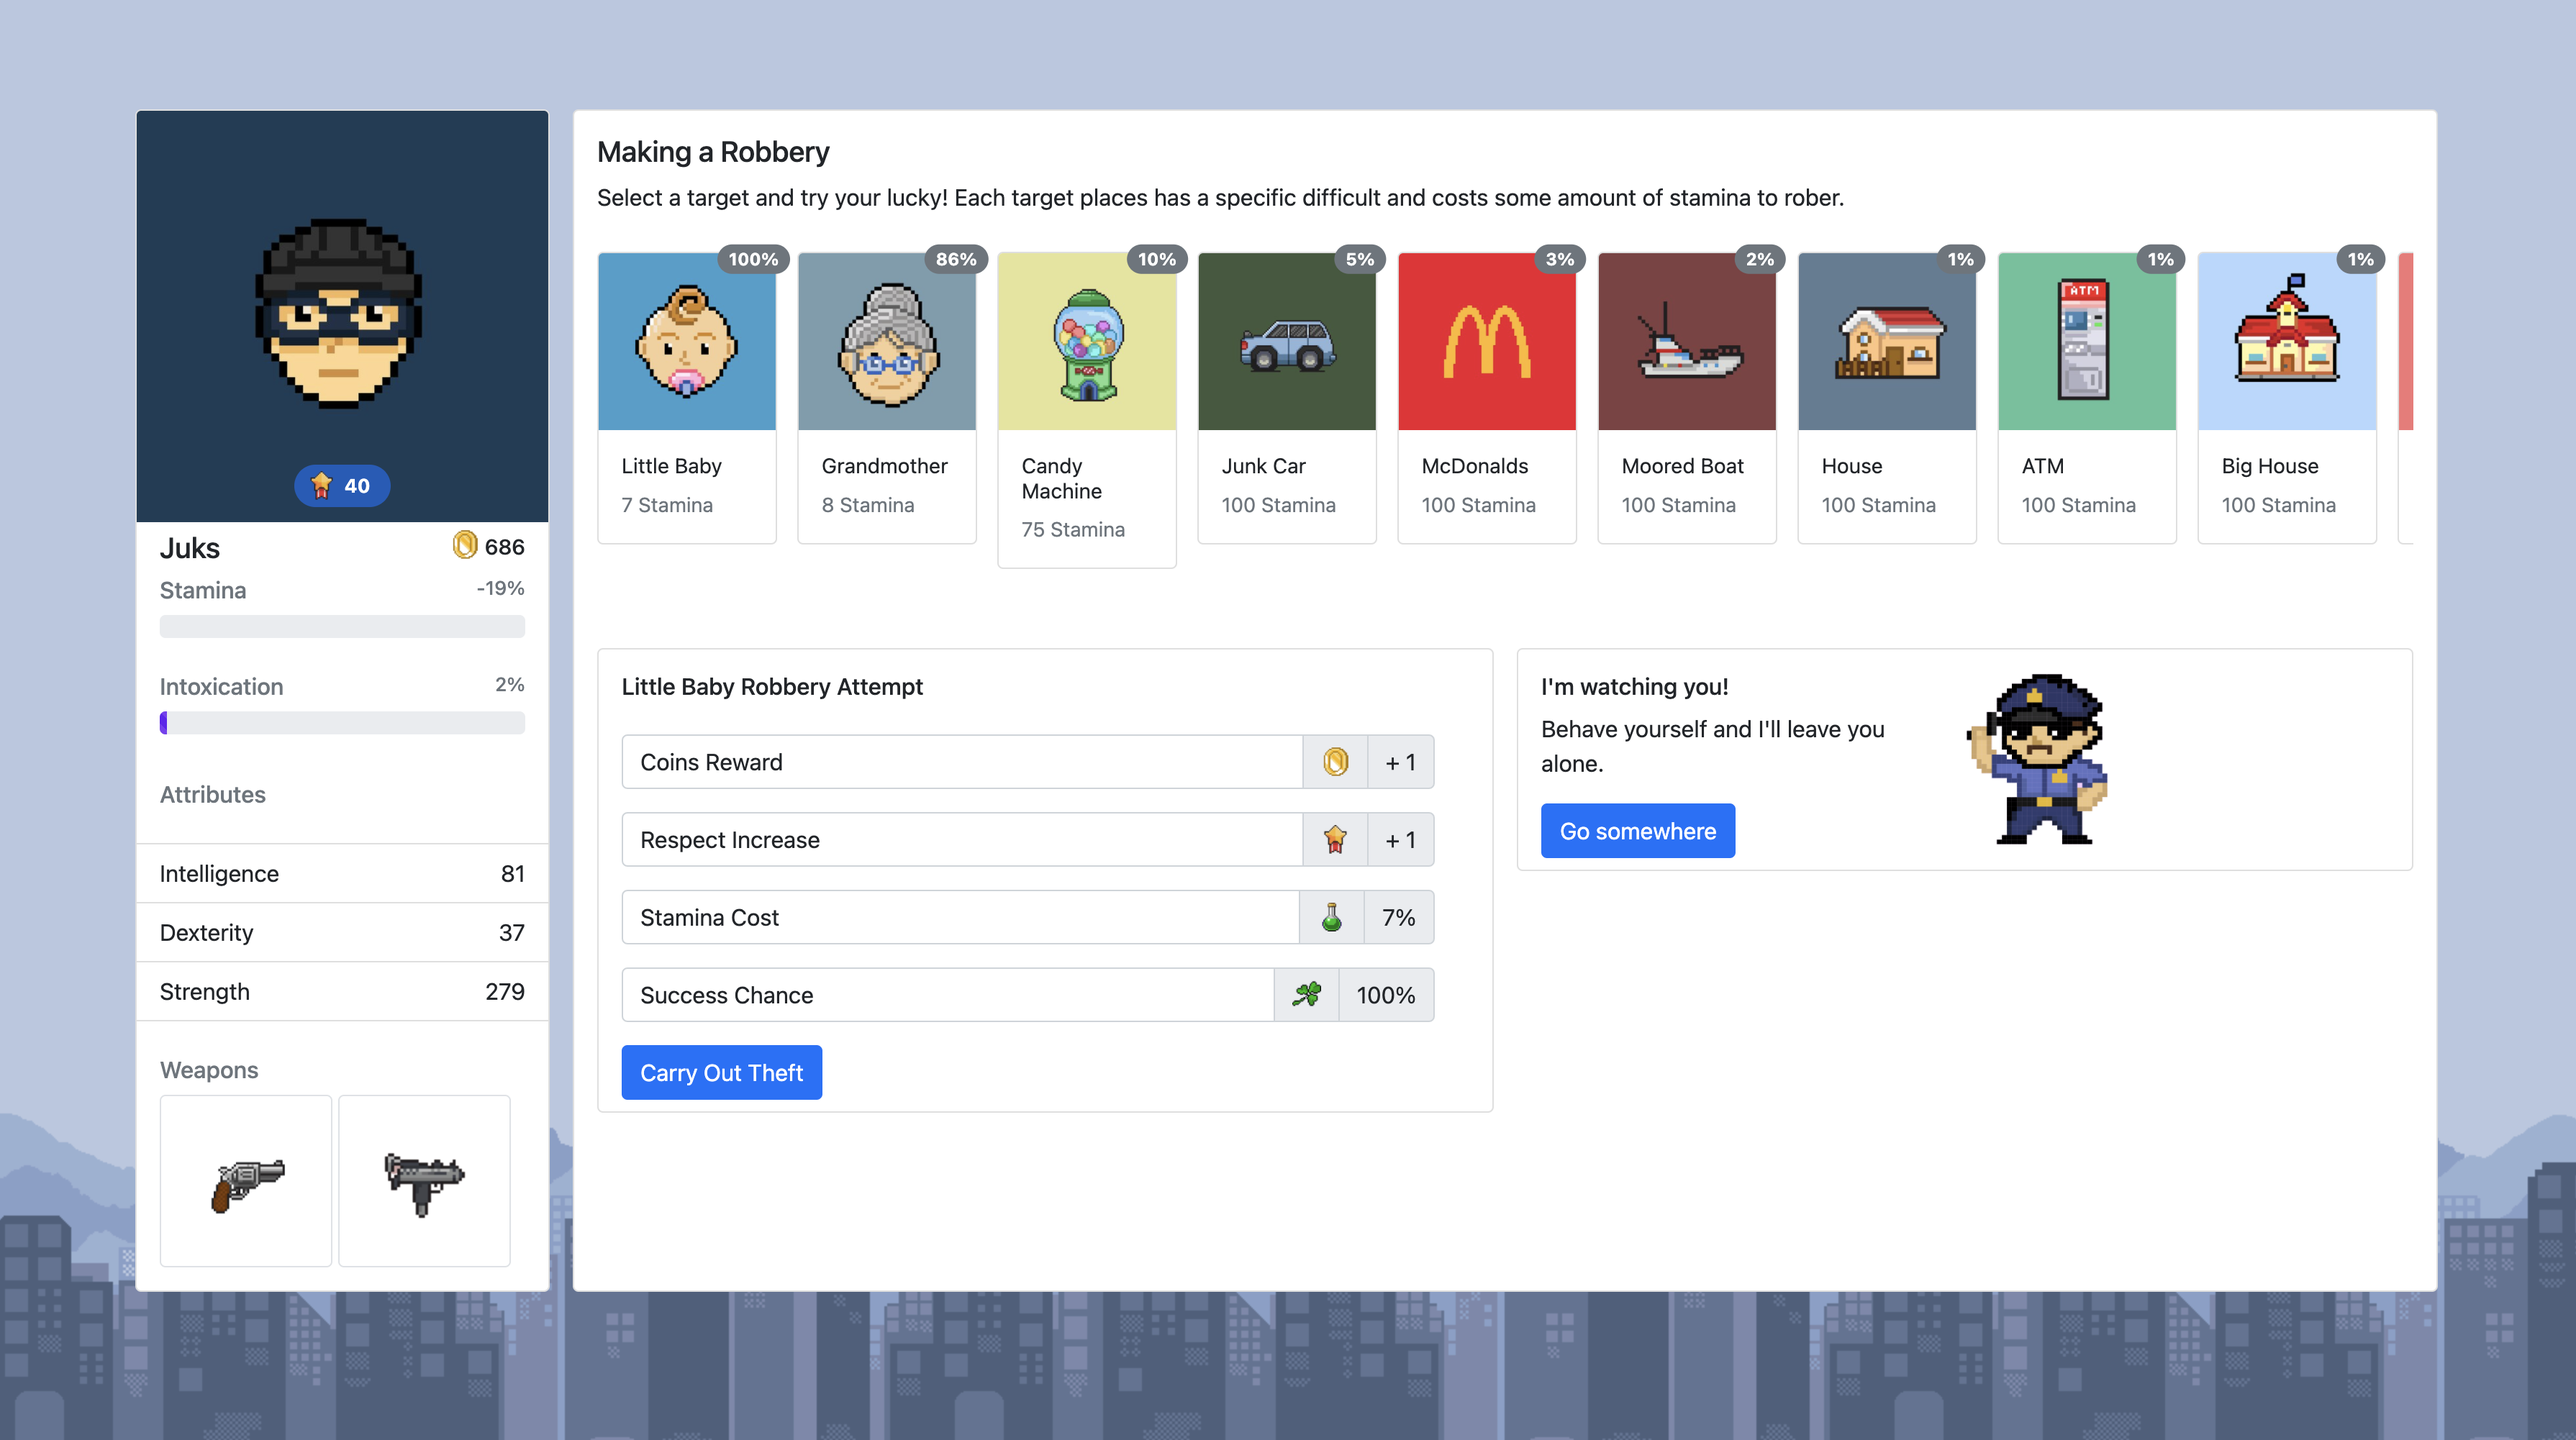
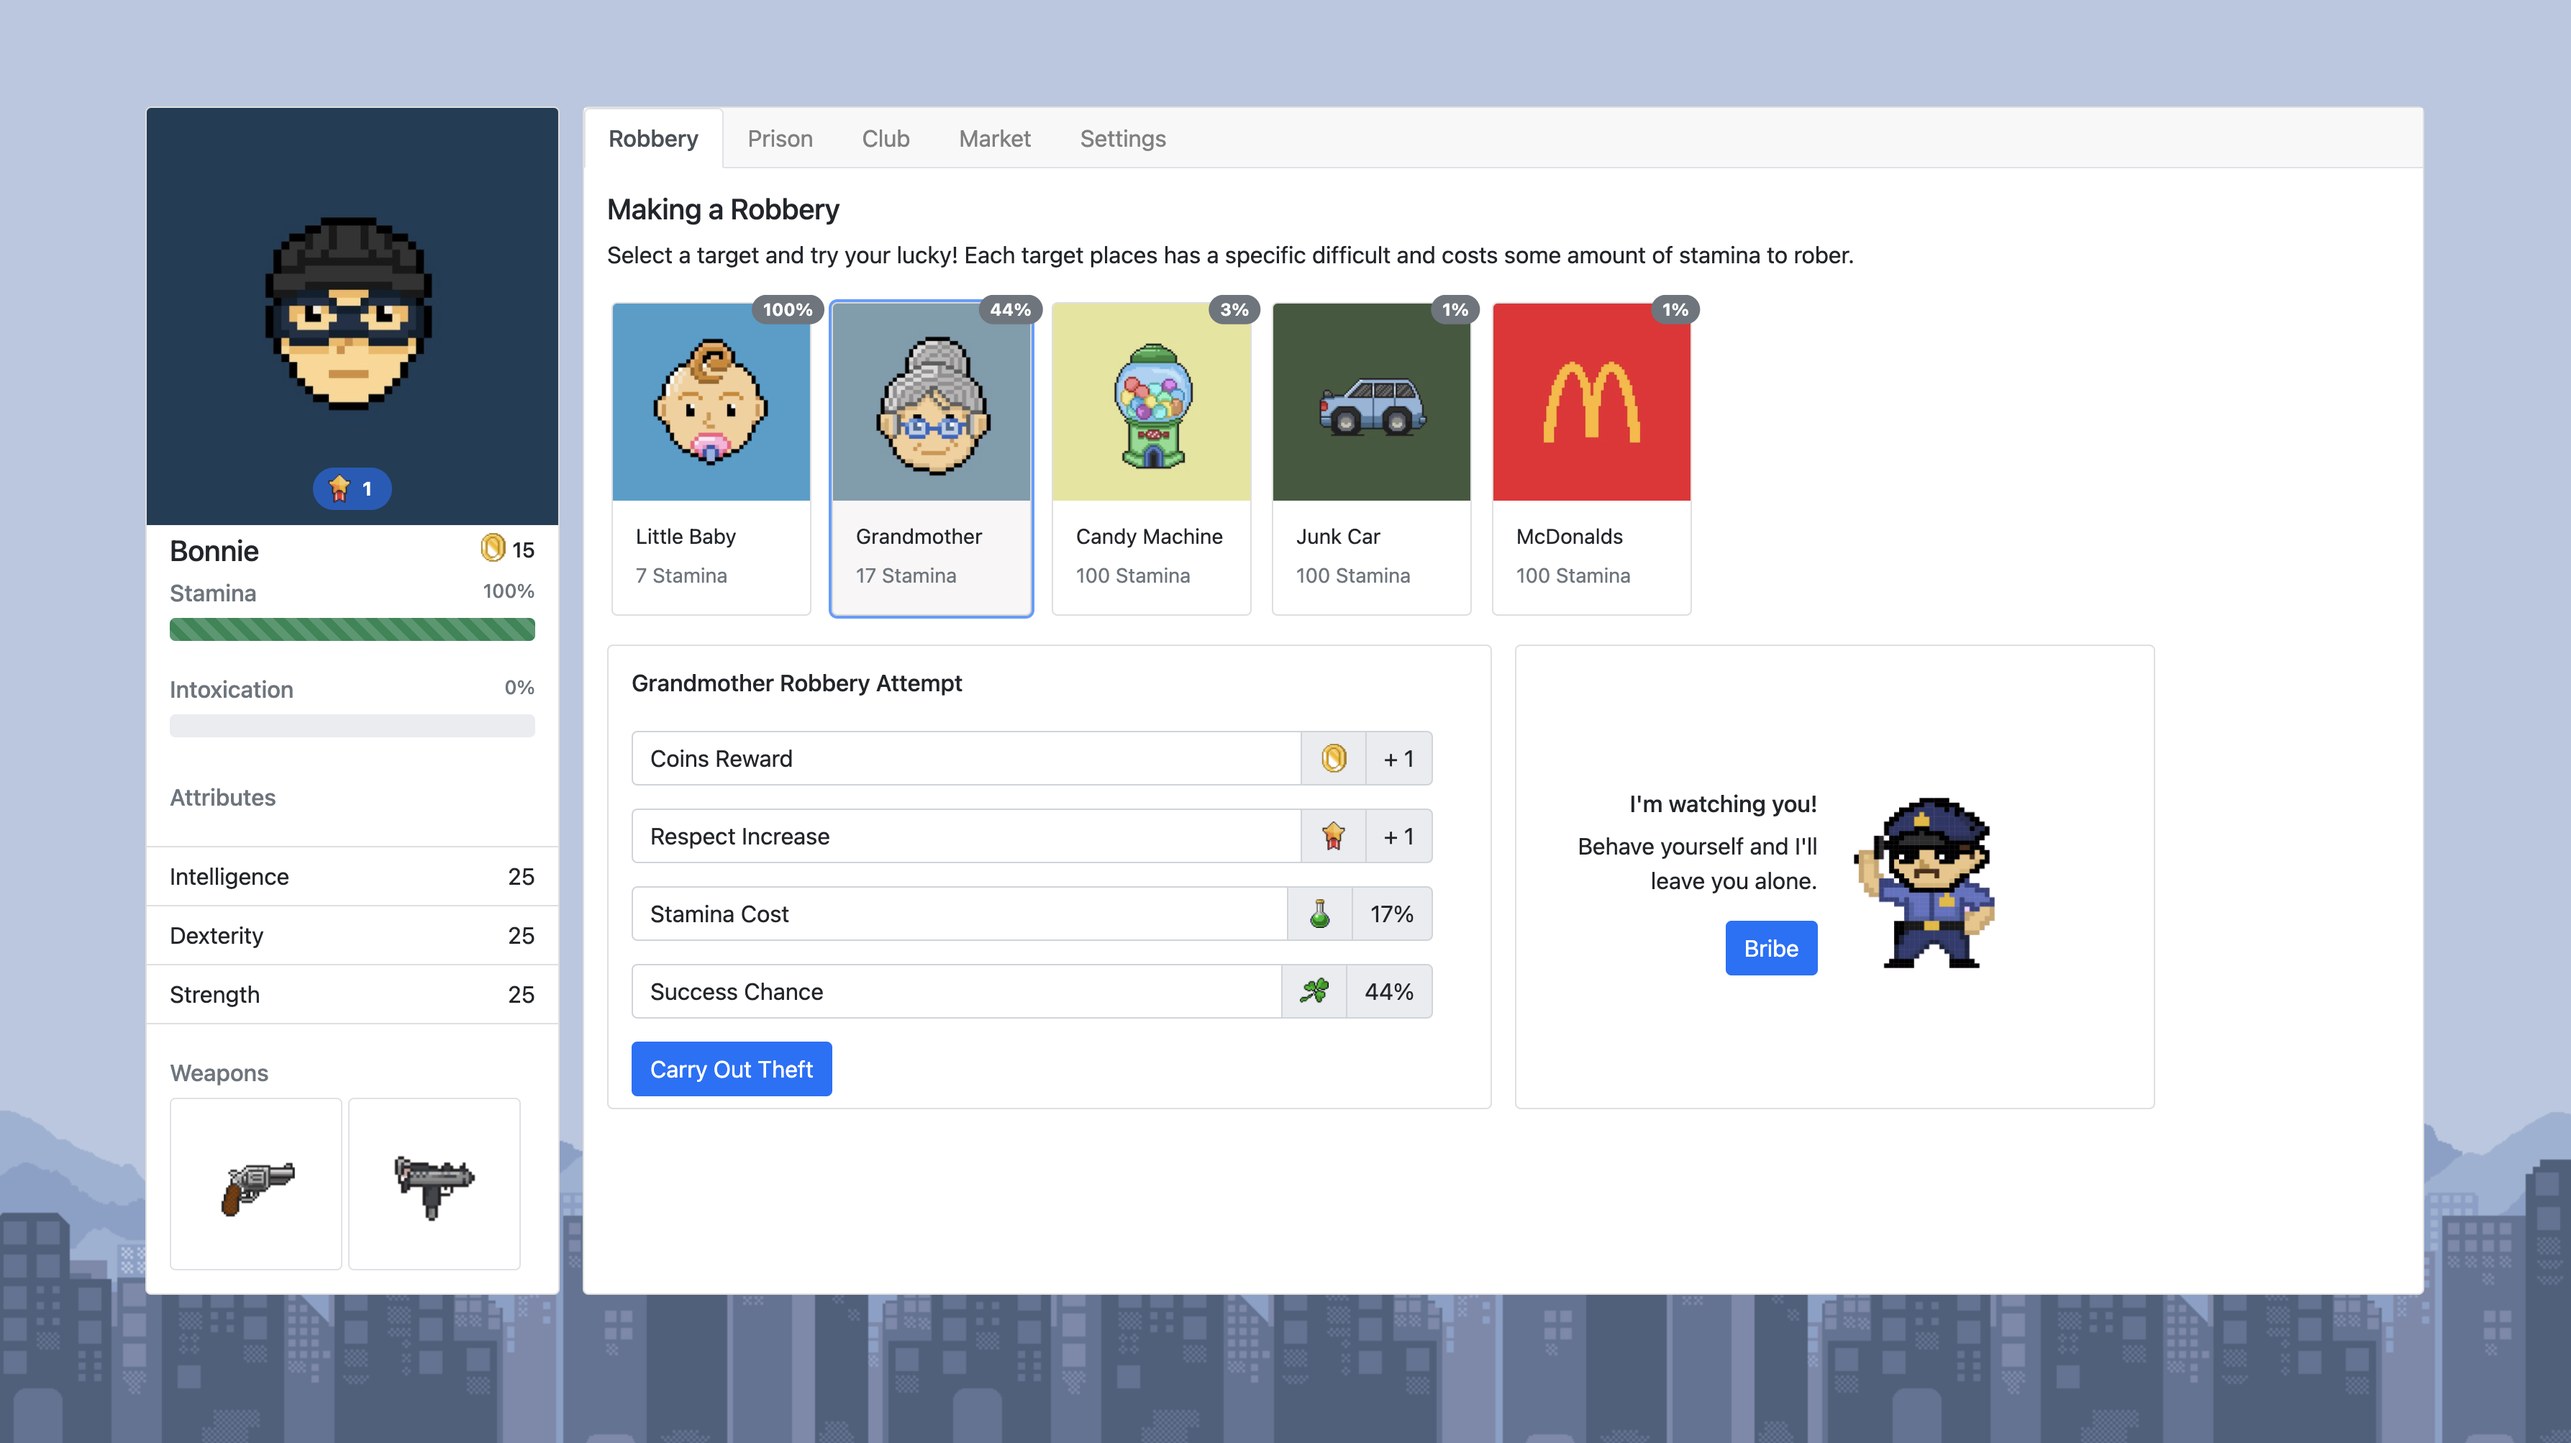
robbery-imgs

diff --git a/src/pages/robbery.js b/src/pages/robbery.js
@@ -15,25 +15,28 @@ module.exports = class RobberyPage {
 
     bind(app) {
         app.get('/robbery', (req, res) => {
-            this.thiefController.get(process.env.USER_ID).then(thief => {
-                req.session.player = thief;
-                res.render('pages/robbery', { thief })
-            });
+            this.thiefController.get(req.session.playerId).then(thief => res.render('pages/robbery', { thief }));
         });
 
         app.get('/robbery-places', (req, res) => {
-            this.robberyPlaceController.placesFor(req.session.player).then((places) => res.render('partials/robbery-places', { places }));
+            this.thiefController.get(req.session.playerId).then(thief => {
+                this.robberyPlaceController.placesFor(thief).then((places) => res.render('partials/robbery-places', { places }));
+            });
         });
 
         app.get('/robbery-form', (req, res) => {
-            this.robberyPlaceController.placesDetails(req.query._id, req.session.player).then(place => {
-                req.session.lastSelectedPlaceId = place._id;
-                res.render('partials/robbery-form', { place })
+            this.thiefController.get(req.session.playerId).then(thief => {
+                this.robberyPlaceController.placesDetails(req.query._id, thief).then(place => {
+                    req.session.lastSelectedPlaceId = place._id;
+                    res.render('partials/robbery-form', { place })
+                });
             });
         });
 
         app.post('/robbery-submit', (req, res) => {
-            this.robberyMecanics.submit(req.body.placeId, req.session.player).then(result => res.send(result));
+            this.thiefController.get(req.session.playerId).then(thief => {
+                this.robberyMecanics.submit(req.body.placeId, thief).then(result => res.send(result));
+            });
         });
     }
 }

diff --git a/front/js/robbery.js b/front/js/robbery.js
@@ -43,6 +43,8 @@ class RobberyLayoutManager {
 
         this.getFormPlaceHolder().hide();
         this.getFormHolder().hide().fadeIn();
+
+        setTimeout(() => { $('.robbery-result-holder').show() }, 400);
     }
 
     reloadPlaces() {
@@ -101,9 +103,11 @@ class RobberyLayoutManager {
 
     updateRobberyResult(result) {
         var sign = n => { return n > 0 ? '+ ' + n : n }
-        $('#result-info').hide().fadeIn();
+        $('#result-info').hide().fadeIn().css('display', 'flex');
         $('#result-info .card-text').text(result.msg)
 
+
+        $('#result-img').attr('src', result.success ? '/img/bag-and-coins.png' : '/img/busted.png')
         $('#result-coins').text(sign(result.coins)).parent().toggle(!!result.coins);
         $('#result-respect').text(sign(result.respect)).parent().toggle(!!result.respect);
         $('#result-intelligence').text(sign(result.intelligence));
@@ -112,13 +116,14 @@ class RobberyLayoutManager {
     }
 
     updateThiedStatus(thief) {
-        $('#coins').text(thief.coins);
-        $('#stamina-percent').text(thief.stamina + '%');
-        $('#stamina').css('width', thief.stamina + '%').attr('aria-valuenow', thief.stamina);
+        $('#stats-respect').text(thief.respect);
+        $('#stats-coins').text(thief.coins);
+        $('#stats-stamina-percent').text(thief.stamina + '%');
+        $('#stats-stamina').css('width', thief.stamina + '%').attr('aria-valuenow', thief.stamina);
 
-        $('#intelligence').text(thief.intelligence);
-        $('#dexterity').text(thief.dexterity);
-        $('#strength').text(thief.strength);
+        $('#stats-intelligence').text(thief.intelligence);
+        $('#stats-dexterity').text(thief.dexterity);
+        $('#stats-strength').text(thief.strength);
     }
 }
 

diff --git a/front/css/robbery.css b/front/css/robbery.css
@@ -17,6 +17,8 @@
 }
 
 .robbery-places-holder{
+  padding-left: 3px;
+  padding-right: 3px;
   align-items: stretch;
   display: flex;
   flex-direction: row;
@@ -43,6 +45,8 @@
   font-weight: 400;
 }
 
+
+
 .robbery-place-item:hover{
   cursor: pointer;
   background-color: rgb(240 236 236 / 46%);
@@ -50,8 +54,9 @@
 
 .robbery-place-item.selected{
   background-color: rgb(240 236 236 / 46%);
-  border: 2px solid #599cff;
-  outline: none;
+  /* border: 2px solid #599cff; */
+  /* outline: none; */
+  outline: 2px solid #599cff;
 }
 
 
@@ -81,18 +86,27 @@
 }
 
 .robbery-result-holder{
+  display: none;
   border-radius: 0.25rem !important;
   padding-top: 1em;
   max-width: 40em;
   min-width: 20em;
-  
+  width: fit-content;
+  height: 100%;
 }
 
 #result-info{
   display: none;
+  min-width: 30em;
 }
 
 
 .card-img-top.ph{
   background-color: #9da0a3;
+}
+
+
+#result-police {
+  align-items: center;
+  height: 100%;
 }

diff --git a/front/css/default.css b/front/css/default.css
@@ -14,10 +14,6 @@ body{
     min-width: 70%;
 }
 
-.nav-tabs{
-    background-color: #f8f8f8;
-}
-
   
 .bg-purple {
     --bs-bg-opacity: 1;
@@ -95,6 +91,11 @@ body{
     width: 100px;
 }
 
+.big-img{
+    vertical-align: text-bottom;
+    width: 170px;
+}
+
 .mini-img{
     vertical-align: text-bottom;
     width: 20px;
@@ -102,4 +103,20 @@ body{
 
 .player-head{
     min-height: 290px;
+}
+
+
+.nav-link.active {
+    background-color: #fff;
+    border-color: #dee2e6 #dee2e6 #fff;
+    font-weight: 500;
+}
+
+.nav-link {
+    color: gray;    
+}
+
+
+.nav-tabs{
+    background-color: #f8f8f8;
 }

diff --git a/src/mecanics/robbery.js b/src/mecanics/robbery.js
@@ -41,7 +41,7 @@ var executeRobbery = (place, player) => {
     var dexterity = Math.max(1, Math.trunc((((player.dexterity * .05) * (dexterityMultiplier * .25)) + (difficult * .1))));
 
 
-    var strength = Math.max(1, Math.trunc((player.strength * .05) + (difficult * .015)));
+    var strength = Math.max(1, Math.trunc((player.strength * .031) + (difficult * .013)));
 
     const result = new RobberyResult(success);
 

diff --git a/app.js b/app.js
@@ -40,6 +40,10 @@ app.use(sessions({
 
 //Making session visible in all ejs files
 app.use(function (req, res, next) {
+
+    //Remove this line when login screen finished
+    req.session.playerId = process.env.USER_ID
+
     res.locals.session = req.session;
     next();
 });
@@ -48,5 +52,5 @@ app.use(function (req, res, next) {
 
 (require('./src/routes/routes')).bind(app);
 
-app.listen(3001);
+app.listen(3000);
 

diff --git a/src/controller/robbery-place.js b/src/controller/robbery-place.js
@@ -70,7 +70,7 @@ const calculatePlaceAttributes = (player, place) => {
 
     /* Defining Respect Increse Bonus */
 
-    var respect = ((coinsReward / 2) * ((place.dificulty / player.respect) * .001) / (staminaCost * .2));
+    var respect = (((coinsReward / 2) * ((place.dificulty / player.respect) * .001)) / (staminaCost * .2));
     respect = Math.max(Math.trunc(respect, 1), 1);
     place.respect = respect;
 

diff --git a/src/pages/settings.js b/src/pages/settings.js
@@ -12,7 +12,7 @@ module.exports = class SettingsPage {
         });
 
         app.post('/settings-reset', (req, res) => {
-            this.settingsMecanics.reset(req.session.player._id).then(result => res.send(result));
+            this.settingsMecanics.reset(req.session.playerId).then(result => res.send(result));
         });
 
 

diff --git a/readme.md b/readme.md
@@ -2,6 +2,8 @@
  
  ![](https://komarev.com/ghpvc/?username=crime-pay&color=green&style=flat&label=Visits) 
 
+[![CodeFactor](https://www.codefactor.io/repository/github/jrvansuita/crime-pay/badge)](https://www.codefactor.io/repository/github/jrvansuita/crime-pay)
+
 </span>
 
 <img src="/front/img/thief-head.jpg" alt="Thief Head" align="left" style="width:200px;"/>
@@ -21,17 +23,35 @@ The player is challenged to live a day-to-day life of a character who can be a p
 -----
 
 Next implementations:
+
+### Layouts
 - [x] tab menu with : Robbery, Prison, Club, Market and Settings
-- [x] reset player setting
-- [ ] go to prison on failed robbery
-- [ ] prevent make robbery when out of stamina
-- [x] on reaload page, auto select last robbery place
-- [x] remove visibility of 0% chance robberies
-- [ ] fix strength ups (beyond other stats)
-- [ ] install code optmization github plugin 
+- [ ] Login page (Metamask integration)
+- [ ] prison page 
+- [ ] club page (hookers and drugs)
+- [ ] market (weapons and special items)
 - [ ] history page (activities log for player) 
+- [x] settings page (as developing demand) 
 
+### Mecanis
+- [x] reset player setting
+- [x] on reaload page, auto select last robbery place
+- [x] fix strength ups (beyond other stats)
+- [ ] go to prison on failed robbery
+- [ ] free from prison (Timing or bribe)
+- [ ] prevent make robbery when out of stamina
+- [ ] refresh stamina when take drugs or get a hooker
 
+### Visual
+- [x] remove visibility of 0% chance robberies
+- [ ] remove visibility of 100% chance robberies (keep only 1)
+- [ ] respect badge animation on win or loss points
+- [x] cool pixel img when success or fail robbery
+- [ ] pixel art fonttypes
+
+### Code
+- [x] install code optmization github plugin 
+- [ ] teste automation with jest
 
 #
 
